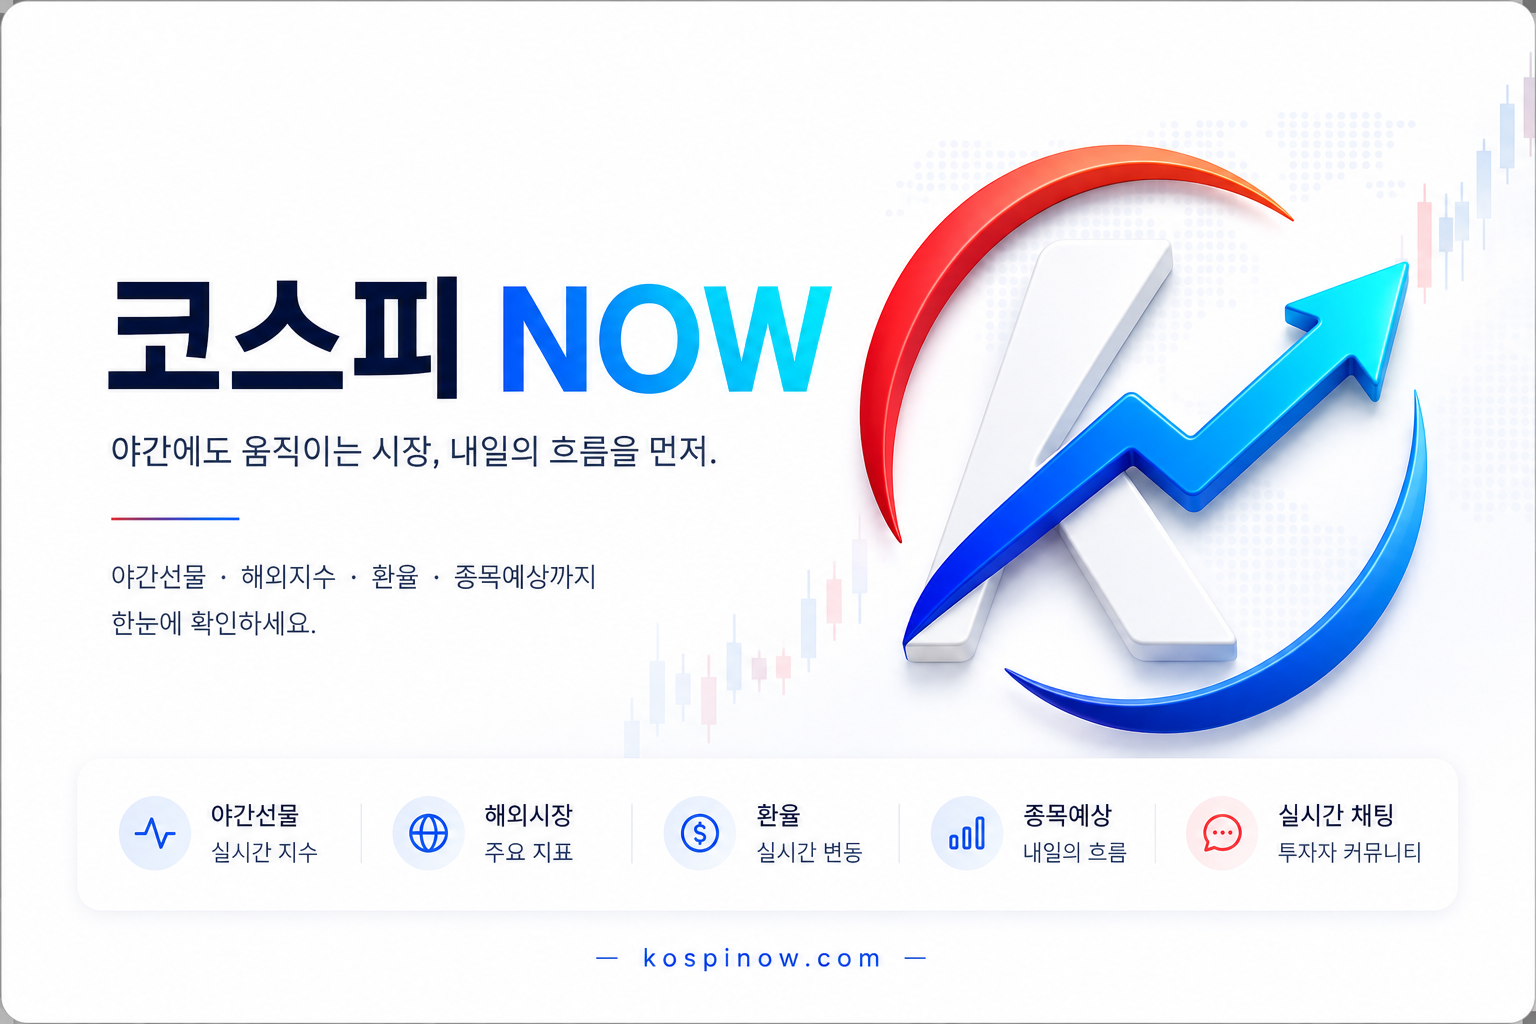
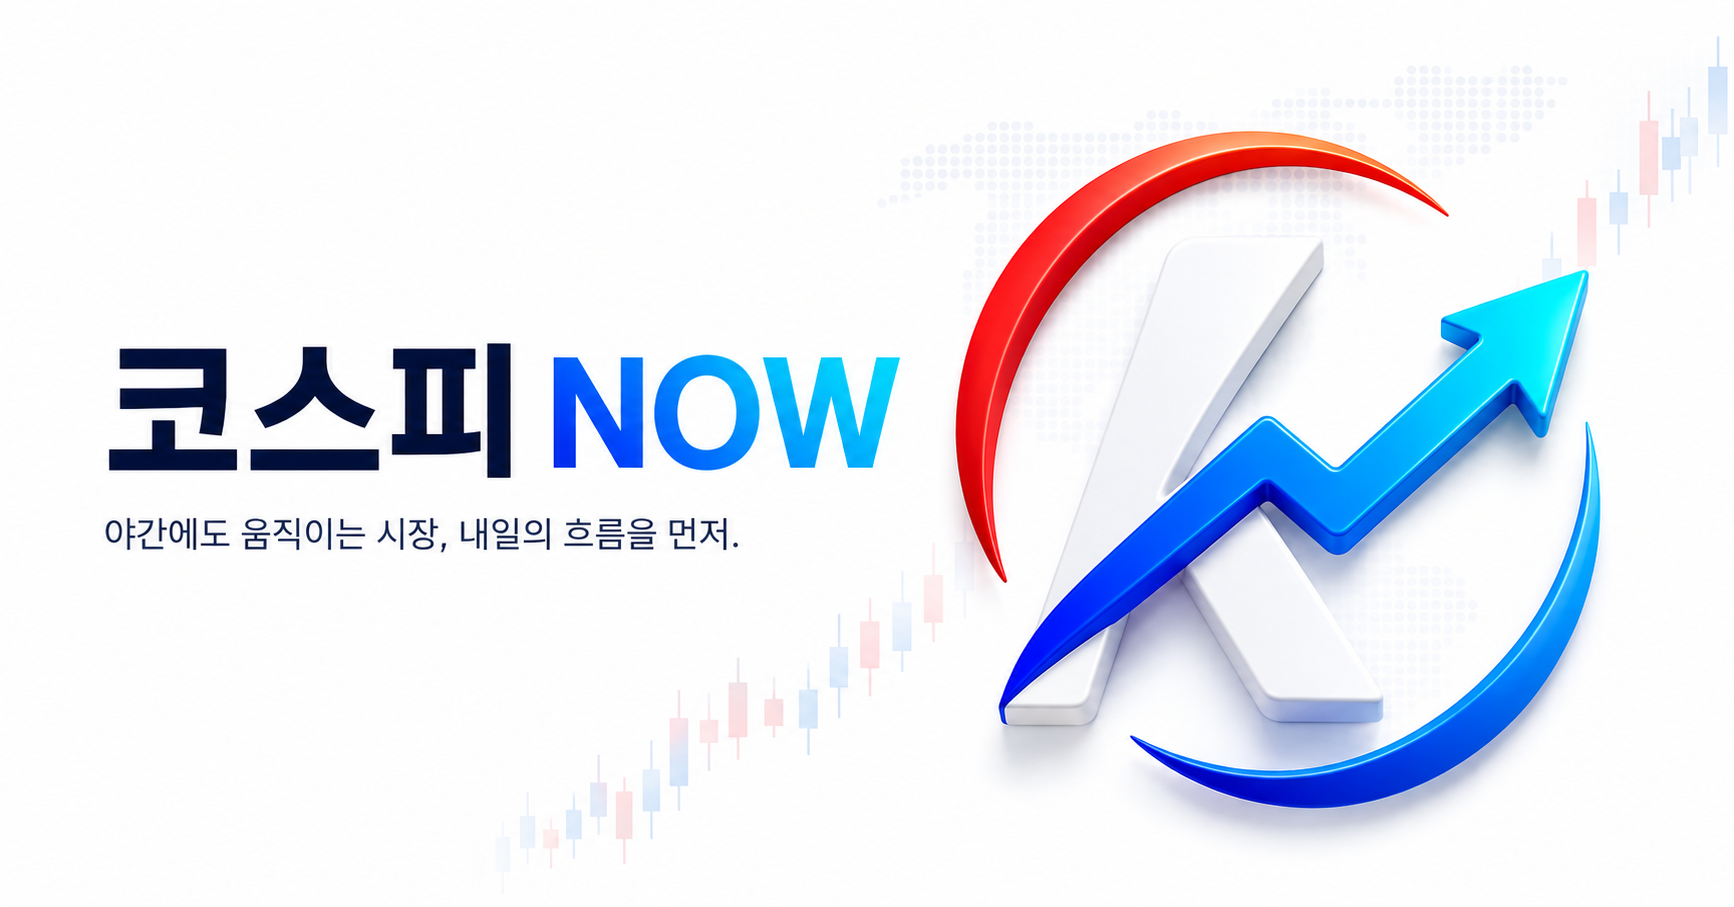
chore(brand): OG image v2, drawn at the OG ratio it ships in
The owner redrew the share image at 1.91:1, so the side padding from the
previous pass goes away — this is a straight resize to 1200x630.

Claude-Session: https://claude.ai/code/session_013AKbGFnpEnjaSJnzvj8MQ9

diff --git a/CLAUDE.md b/CLAUDE.md
@@ -1619,9 +1619,11 @@ Claude는 구현하지 않은 기능을 구현했다고 말하지 않는다.
   이 이름은 두 번 바뀌었으므로(2.1장) 컴포넌트마다 적어 두지 않는다.
   `index.html`·`site.webmanifest`는 빌드 전 정적 파일이라 문자열을 직접 쓴다 — 함께 고쳐야 한다.
 * `public/og-image.jpg`는 2026-08-31 새 로고 기반으로 교체되어 "코스피 NOW" 표기를 따른다.
-  원본(1536×1024)은 `design/share-image-source.png`이고, 배포본은 세로를 자르지 않고
-  좌우 흰 패딩으로 1200×630을 만든 것이다 — 세로를 자르면 맨 아래 `kospinow.com`
-  줄이 잘린다(28.4가 지키는 그 줄).
+  원본은 `design/share-image-source.png`(1734×907)로, 처음부터 OG 비율(1.91:1)로
+  그려져 배포본은 1200×630 축소뿐이다. 이 이미지에는 도메인 텍스트가 없다 —
+  소유자가 그렇게 그린 것이고, OG 미리보기는 이미지 밑에 URL을 항상 함께 보여준다.
+  28.4의 "kospinow.com을 지운다 금지"는 카드 공유 이미지(SharePreviewModal) 얘기이며
+  그쪽은 그대로다.
 * **404 페이지는 `public/404.html` 하나로 독립적이다**(2026-08-14). GitHub Pages가
   존재하지 않는 **모든** 경로에 이 파일을 내보내며, 여기에는 배포 직후 예전 탭이
   요청하는 사라진 청크도 포함된다. "없습니다"를 말하려고 앱 번들을 받게 하면
